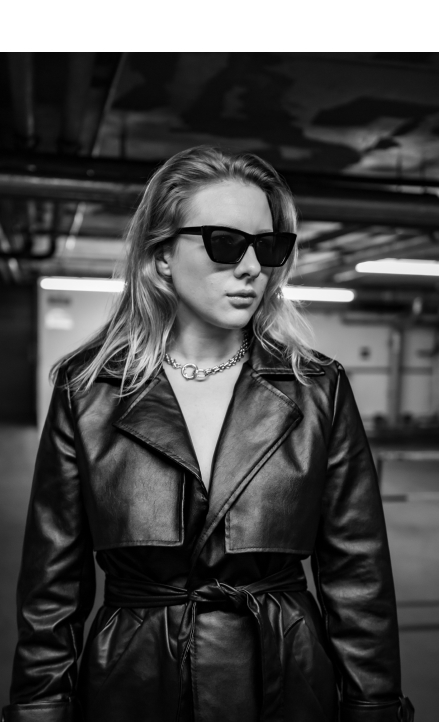
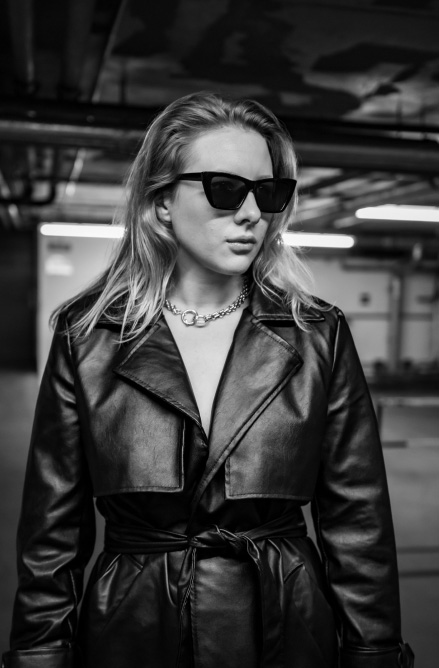
фоточки приехали

diff --git a/css/main.css b/css/main.css
@@ -84,7 +84,7 @@ body {
 	min-width: 320px;
 	position: relative;
 	overflow-x: hidden;
-	background-color: #333;
+	background-color: #fff;
 }
 
 .header {
@@ -124,12 +124,13 @@ body {
 .header__menu-link:hover,
 .header__connect-link:hover {
 	color: #8B8B8B;
+	transition: 0.6s;
 }
 
 .header__inner {
 	display: flex;
 	justify-content: space-between;
-	max-width: 90rem;
+	width: 90rem;
 	margin: 0 auto;
 }
 
@@ -170,7 +171,9 @@ body {
 	background-clip: text;
 	text-fill-color: transparent;
 	margin-bottom: 2.4rem;
+	transition: 2s;
 }
+
 
 .header__menu-list {
 	display: flex;
@@ -271,11 +274,13 @@ body {
 	z-index: 1;
 	transition: 0.6s ease;
 }
-.about__img:hover{
+
+.about__img:hover {
 	z-index: 5;
 	transform: scale(110%);
 	transition: 0.6s ease;
 }
+
 .about__img-2 {
 	position: absolute;
 	left: 25rem;
@@ -283,7 +288,8 @@ body {
 	z-index: 2;
 	transition: 0.6s ease;
 }
-.about__img-2:hover{
+
+.about__img-2:hover {
 	z-index: 5;
 	transform: scale(110%);
 	transition: 0.6s ease;
@@ -296,7 +302,8 @@ body {
 	z-index: 3;
 	transition: 0.6s ease;
 }
-.about__img-3:hover{
+
+.about__img-3:hover {
 	z-index: 5;
 	transform: scale(110%);
 	transition: 0.6s ease;
@@ -343,4 +350,65 @@ body {
 	border: 4px solid #212121;
 	margin-top: 1.1rem;
 	right: 13rem;
+}
+
+.photo {
+	background-color: #212121;
+
+}
+
+.photo__inner {
+
+	display: flex;
+	justify-content: space-between;
+	width: 90rem;
+	margin: 0 auto;
+
+
+}
+
+.photo__inner img {
+	margin-top: 3.9rem;
+	margin-bottom: 3.9rem;
+}
+
+.slider {
+	width: 90rem;
+	margin: 0 auto;
+	background-color: #fff;
+}
+
+.slider__inner {
+	display: flex;
+	justify-content: space-between;
+	margin-top: 3.9rem;
+	margin-bottom: 3.9rem;
+	margin-right: 0.6rem;
+}
+
+.slider__inner img {
+	margin-right: 1rem;
+	margin-left: 1rem;
+}
+
+.slider__more {
+	margin-left: 7.7rem;
+	padding-bottom: 7.4rem;
+}
+
+.slider__more-link {
+	font-family: 'Roboto';
+	font-style: normal;
+	font-weight: 400;
+	font-size: 0.9rem;
+	line-height: 1.1rem;
+	text-decoration-line: underline;
+	text-transform: uppercase;
+	color: #6C6A6A;
+	
+}
+
+.slider__more-link:hover {
+	color: #1f1f1f;
+	transition: 0.6s;
 }

diff --git a/index.html b/index.html
@@ -130,13 +130,26 @@
 					<span class="title-reverse__line-item"> </span>
 				</div>
 				галерея
-		
 			</div>
 		</div>
-
 	</section>
 
-
+	<section class="photo">
+		<div class="photo__inner">
+			<img src="images/gallery/slide_1.jpg" alt="">
+			<img src="images/gallery/slide_2.jpg" alt="">
+		</div>
+	</section>
+<section class="slider">
+	<div class="slider__inner">
+		<a href=""><img src="images/gallery/bottom_slide-1.png" alt=""></a>
+		<a href=""><img src="images/gallery/bottom_slide-2.jpg" alt=""></a>
+		<a href=""><img src="images/gallery/bottom_slide-3.jpg" alt=""></a>
+	</div>
+	<div class="slider__more">
+<a href="" class="slider__more-link">смотреть еще</a>
+	</div>
+</section>
 
 </body>
 
